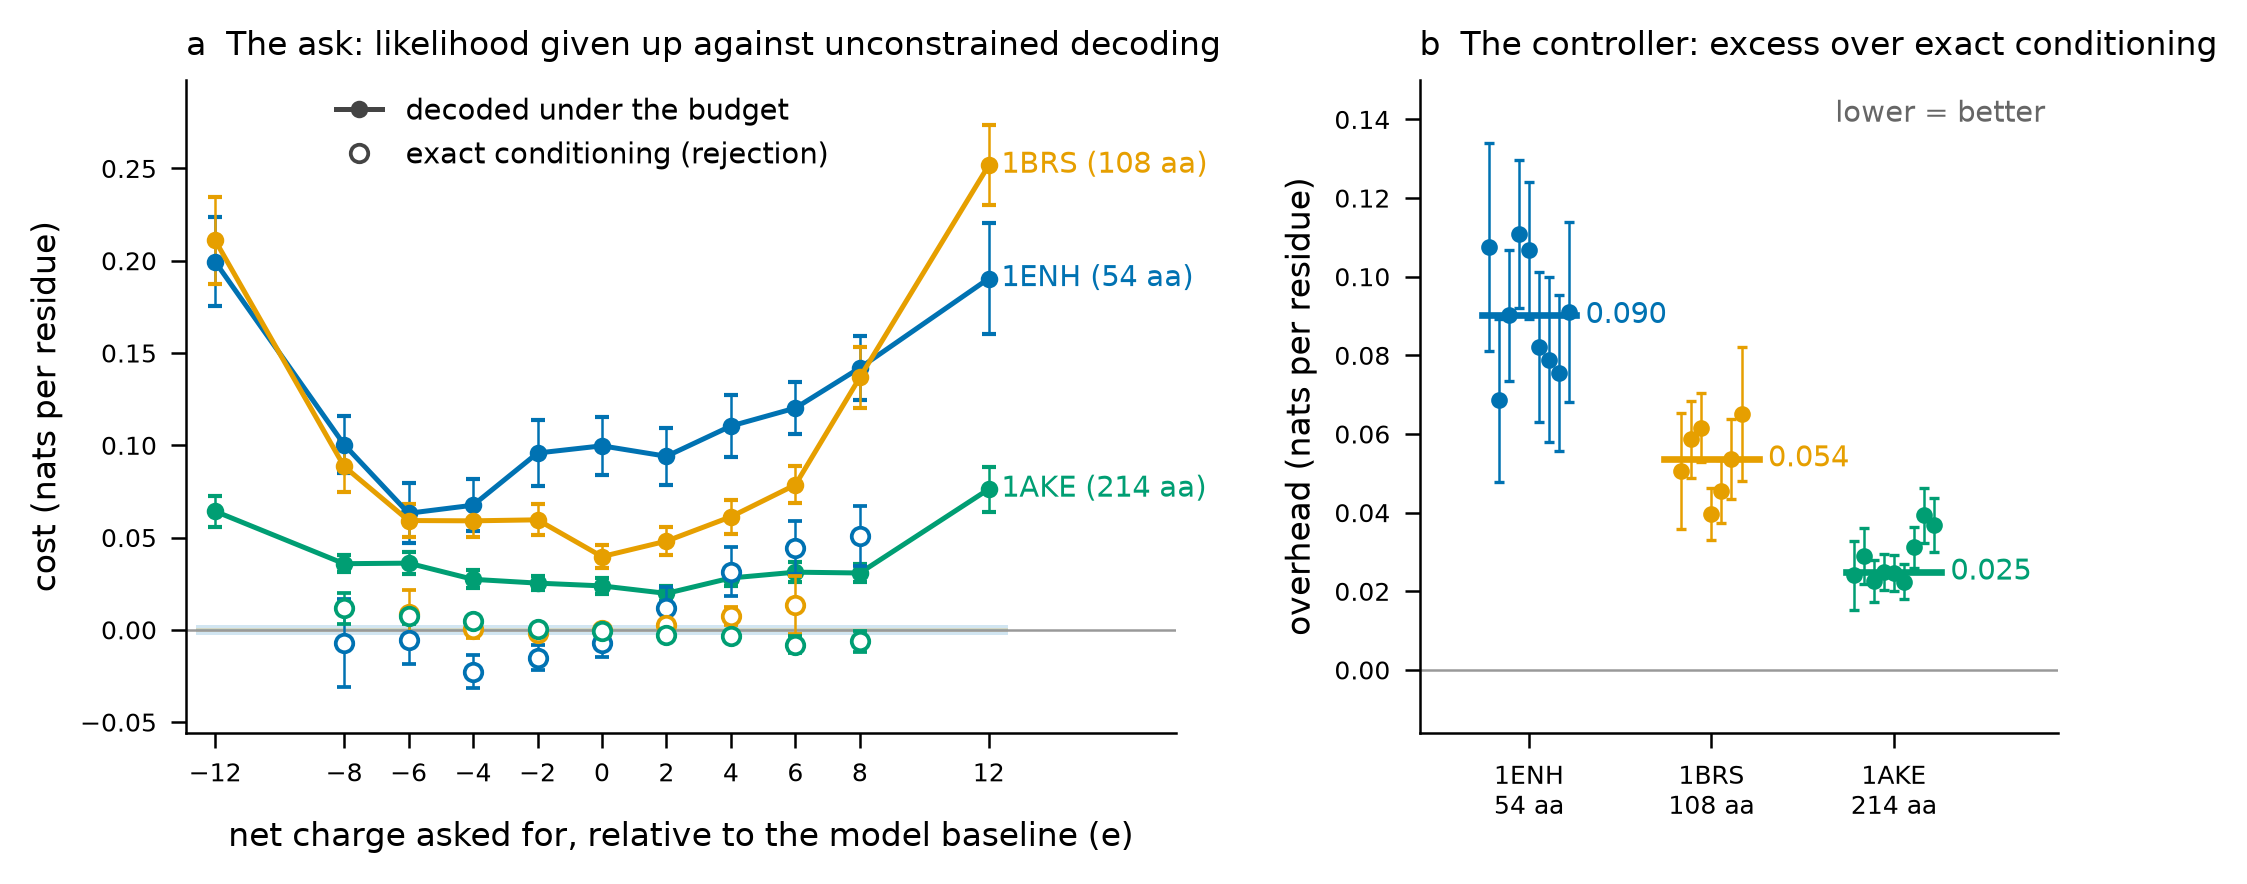
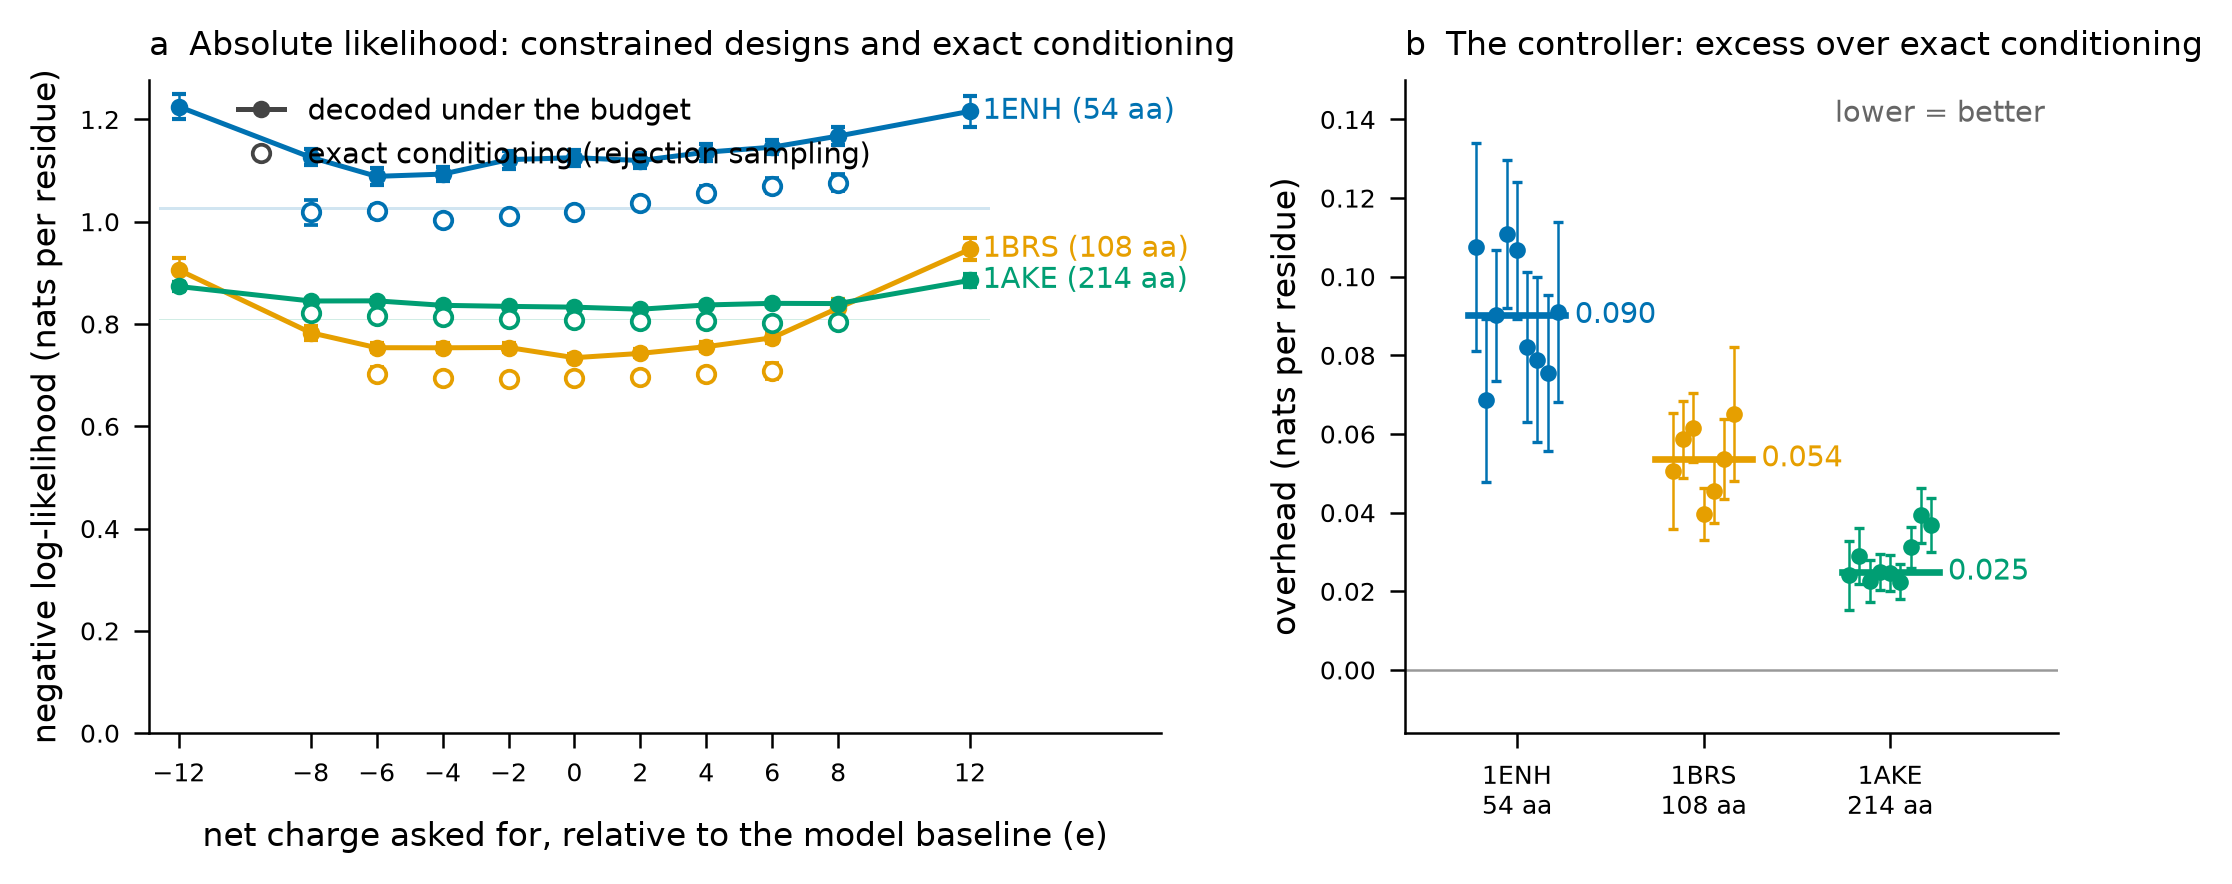
Update benchmark figure: show absolute NLL from y=0 to full scale
Panel (a) now displays absolute per-residue likelihood (nats) for both constrained
designs and the true conditional via rejection sampling, with the unconstrained pool
baseline as the shaded band. This gives full visibility of the model's preference
landscape and makes it clear where conditioning is cheap vs expensive.

Updated the page text to match the new panel: emphasize the absolute values, the
role of the pool band as reference, and how rejection sampling below the band shows
the constraint is aligned with the model's natural preferences.

diff --git a/benchmarks/plot_charge_cost.py b/benchmarks/plot_charge_cost.py
@@ -2,13 +2,11 @@
 
     python benchmarks/plot_charge_cost.py     # reads results/charge_cost_summary.csv
 
-Every plotted quantity is an estimate and carries its own 95% interval (t-distribution, half-width
-t * s / sqrt(n)). Panel a is the cost of the ask - mean per-residue NLL above the unconstrained
-pool - against the size of the shift, with the true conditional (rejection sampling from that pool)
-as open markers wherever the pool supplied enough designs at that exact charge. The zero line is
-the pool mean, drawn as a band because it is itself estimated. Panel b is the gap between the two
-sets of markers, the controller's own overhead; its interval combines both sources of noise, and a
-dot is drawn open where that interval includes zero.
+Panel (a) shows absolute per-residue NLL for designs decoded under the budget (filled markers) and
+the true conditional via rejection sampling (open markers). The shaded band is the unconstrained
+pool baseline ± 95% CI. All error bars are 95% confidence intervals of the mean. Panel (b) is the
+gap: the controller's overhead above exact conditioning, with medians marked; dots are open where
+the 95% interval includes zero (none do here).
 """
 import argparse
 import os
@@ -49,38 +47,40 @@ def main() -> int:
     summary = pd.read_csv(arguments.summary)
     order = sorted(summary.backbone.unique(), key=lambda name: summary.loc[summary.backbone == name, 'length'].iloc[0])
 
-    figure, (cost_axes, overhead_axes) = plt.subplots(1, 2, figsize=(7.0, 2.9), gridspec_kw={'width_ratios': [1.55, 1.0]})
+    figure, (nll_axes, overhead_axes) = plt.subplots(1, 2, figsize=(7.0, 2.9), gridspec_kw={'width_ratios': [1.55, 1.0]})
     offsets = sorted(summary.offset.unique())
     span = (offsets[0] - 0.6, offsets[-1] + 0.6)
 
     for backbone in order:
         rows = summary[summary.backbone == backbone].sort_values('offset')
         colour = COLOURS[backbone]
-        pool_half = half_width(rows.pool_sd.iloc[0], rows.n_pool.iloc[0])
-        cost_axes.fill_between(span, [-pool_half] * 2, [pool_half] * 2, color=colour, alpha=0.18, linewidth=0, zorder=1)
+        pool_nll = rows.pool_nll.iloc[0]; pool_sd = rows.pool_sd.iloc[0]; pool_n = rows.n_pool.iloc[0]
+        pool_half = half_width(pool_sd, pool_n)
+        nll_axes.fill_between(span, [pool_nll - pool_half] * 2, [pool_nll + pool_half] * 2, 
+                              color=colour, alpha=0.18, linewidth=0, zorder=1)
         error = [half_width(sd, n) for sd, n in zip(rows.constrained_sd, rows.n_constrained)]
-        cost_axes.errorbar(rows.offset, rows.cost_vs_pool, yerr=error, color=colour, marker='o',
-                           markersize=3.2, elinewidth=0.6, capsize=1.6, zorder=3)
-        reference = rows.dropna(subset=['excess_nll'])
+        nll_axes.errorbar(rows.offset, rows.constrained_nll, yerr=error, color=colour, marker='o',
+                          markersize=3.2, elinewidth=0.6, capsize=1.6, zorder=3)
+        reference = rows.dropna(subset=['rejection_nll'])
         reference_error = [half_width(sd, n) for sd, n in zip(reference.rejection_sd, reference.n_rejection)]
-        cost_axes.errorbar(reference.offset, reference.rejection_nll - reference.pool_nll, yerr=reference_error,
-                           color=colour, marker='o', markersize=4.2, markerfacecolor='white', markeredgewidth=0.9,
-                           linestyle='none', elinewidth=0.6, capsize=1.6, zorder=4)
+        nll_axes.errorbar(reference.offset, reference.rejection_nll, yerr=reference_error,
+                          color=colour, marker='o', markersize=4.2, markerfacecolor='white', markeredgewidth=0.9,
+                          linestyle='none', elinewidth=0.6, capsize=1.6, zorder=4)
         last = rows.iloc[-1]
-        cost_axes.annotate(f'{backbone} ({last.length} aa)', xy=(last.offset, last.cost_vs_pool),
-                           xytext=(3, 0), textcoords='offset points', color=colour, va='center', fontsize=SIZES[1])
+        nll_axes.annotate(f'{backbone} ({last.length} aa)', xy=(last.offset, last.constrained_nll),
+                          xytext=(3, 0), textcoords='offset points', color=colour, va='center', fontsize=SIZES[1])
 
-    cost_axes.axhline(0.0, color='#999999', linewidth=0.6, zorder=1)
-    cost_axes.set_xlabel('net charge asked for, relative to the model baseline (e)', labelpad=8)
-    cost_axes.set_ylabel('cost (nats per residue)')
-    cost_axes.set_title('a  The ask: likelihood given up against unconstrained decoding', loc='left')
-    cost_axes.set_xticks(offsets)
-    cost_axes.set_xlim(span[0] - 0.3, span[1] + 5.2)
-    cost_axes.margins(y=0.08)
-    cost_axes.plot([], [], color='#444444', marker='o', markersize=3.2, label='decoded under the budget')
-    cost_axes.plot([], [], color='#444444', marker='o', markersize=4.2, markerfacecolor='white',
-                   markeredgewidth=0.9, linestyle='none', label='exact conditioning (rejection)')
-    cost_axes.legend(loc='upper center', bbox_to_anchor=(0.40, 1.0), fontsize=SIZES[1], handlelength=1.6, borderaxespad=0.2)
+    nll_axes.set_xlabel('net charge asked for, relative to the model baseline (e)', labelpad=8)
+    nll_axes.set_ylabel('negative log-likelihood (nats per residue)')
+    nll_axes.set_title('a  Absolute likelihood: constrained designs and exact conditioning', loc='left')
+    nll_axes.set_xticks(offsets)
+    nll_axes.set_xlim(span[0] - 0.3, span[1] + 5.2)
+    nll_axes.set_ylim(0, None)
+    nll_axes.margins(y=0.02)
+    nll_axes.plot([], [], color='#444444', marker='o', markersize=3.2, label='decoded under the budget')
+    nll_axes.plot([], [], color='#444444', marker='o', markersize=4.2, markerfacecolor='white',
+                  markeredgewidth=0.9, linestyle='none', label='exact conditioning (rejection sampling)')
+    nll_axes.legend(loc='upper center', bbox_to_anchor=(0.40, 1.0), fontsize=SIZES[1], handlelength=1.6, borderaxespad=0.2)
 
     for position, backbone in enumerate(order):
         rows = summary[summary.backbone == backbone].dropna(subset=['excess_nll']).copy()

diff --git a/docs/source/charge-budget-benchmark.md b/docs/source/charge-budget-benchmark.md
@@ -1,10 +1,10 @@
 # What the net-charge budget costs
 
-Asking the redesign stage for a net charge makes it emit less typical sequences. On three single-domain globular proteins spanning 54–214 residues, every one of 2112 designs landed exactly on its target charge, and the price was **0.025–0.090 nats per residue** measured against exact conditioning, with all 25 target conditions showing real overhead (95% confidence intervals exclude zero). Cost scales with charge units *per residue*, not charge units: a 6 e shift costs 0.03–0.04 nats/residue on a 214-mer and 0.06–0.12 on a 54-mer.
+Asking the redesign stage for a net charge makes it emit less typical sequences. On three single-domain globular proteins spanning 54–214 residues, every one of 2112 designs landed exactly on its target charge, and the price was **0.025–0.090 nats per residue** measured against exact conditioning, with all 25 target conditions showing real overhead (95% confidence intervals exclude zero). Cost scales with charge units *per residue*, not charge units: a 6 e shift costs roughly 0.03–0.04 nats/residue on a 214-mer and 0.06–0.12 on a 54-mer.
 
 ![Cost of the net-charge budget on three globular backbones](_static/charge_cost.png)
 
-**Figure.** *(a)* Mean per-residue negative log-likelihood above the unconstrained pool (shaded band: the pool mean ± 95% CI), against the charge asked for, stated relative to each backbone's unconstrained mean (+1 for 1ENH, +3 for 1BRS, −5 for 1AKE). Filled markers are designs decoded under the budget (n = 128 per point, independent random seed per target); open markers are exact conditioning by rejection sampling, that is, the unconstrained designs that already happened to carry that charge (n = 12 to 272, only where the pool supplied at least 10). Error bars are 95% confidence intervals of the mean. Open markers below the band are real: conditioning on a charge the model already likes can be cheaper than the pool average. *(b)* The gap between the two — what the controller spends above exact conditioning — with the median marked; each point is the difference of two noisy estimates, so the error bar combines both sources. Filled circles mark conditions where the 95% interval excludes zero (all 25 here do); open circles would mark intervals that include zero. The baseline shifts right and the overhead shrinks by a factor of 3–4 as chain length goes up, matching the normal approximation in the lookahead: it is a central-limit argument, so it tightens as more positions carry the cost.
+**Figure.** *(a)* Absolute per-residue negative log-likelihood. Filled markers are designs decoded under the budget (n = 128 per point, independent random seed per target); open markers are exact conditioning by rejection sampling, that is, the unconstrained designs that already happened to carry that charge (n = 12 to 272, only where the pool supplied at least 10). The shaded band is the unconstrained pool mean ± 95% confidence interval. Error bars are 95% confidence intervals of the mean. Open markers below the band show conditions where the constraint is aligned with the model's natural preferences — conditioning on a charge the model already likes is cheaper than the pool average. *(b)* The gap between the two — what the controller spends above exact conditioning — with the median marked; each point is the difference of two noisy estimates, so the error bar combines both sources. Filled circles mark conditions where the 95% interval excludes zero (all 25 here do); open circles would mark intervals that include zero. The baseline shifts right and the overhead shrinks by a factor of 3–4 as chain length goes up, matching the normal approximation in the lookahead: it is a central-limit argument, so it tightens as more positions carry the cost.
 
 ## Why the controller's overhead is real, and why we can measure it
 
@@ -12,13 +12,13 @@ The budget is enforced by two stages. A soft steering term in the MPNN sampler r
 
 Rejection sampling is the gold standard for measuring that cost. Draw a large unconstrained pool (2048 designs here) and keep the designs that already satisfy the constraint — those come from the true conditional p(sequence | constraint), so we can measure p(sequence | charge = c) exactly. Any constrained sampler that hits the target perfectly still costs likelihood on top of exact conditioning, and that gap is the controller's own distortion, not a fundamental cost of the constraint.
 
-Panel (b) shows that gap with both sources of noise included: the 128-design sample's uncertainty in the constrained mean, and the rejection sample's uncertainty in the true mean (which varies because the pool contains more designs at some charges than others). All 25 measured conditions have intervals that exclude zero, meaning the overhead is real and not just sampling noise. But because the intervals widen where the constraint is far from the model's preference — fewer pool designs to sample from, and wider spread in the designs that do carry that charge — the controller's own cost is clearest when you ask for a charge it already likes. At charge 0 on 1ENH the ask is essentially free (the constrained mean is −0.007 nats/residue), so almost all of the measured cost there is overhead.
+Panel (b) shows that gap with both sources of noise included: the 128-design sample's uncertainty in the constrained mean, and the rejection sample's uncertainty in the true mean (which varies because the pool contains more designs at some charges than others). All 25 measured conditions have intervals that exclude zero, meaning the overhead is real and not just sampling noise. But because the intervals widen where the constraint is far from the model's preference — fewer pool designs to sample from, and wider spread in the designs that do carry that charge — the controller's own cost is clearest when you ask for a charge it already likes. At charge +1 on 1ENH the model's pool mean is already +1, so the constrained sampler recovers nearly the exact conditional (overhead ≈ 0.07 nats/residue, panel b) and the absolute likelihood (panel a, filled marker at offset 0) sits squarely on the pool band.
 
 ## The steering-cap fix
 
 The initial benchmark suffered from a units slip in the port from PyTorch. Your reference implementation clamps `temperature × logp` at `lambda_max` before the temperature division, so the effective clip on the sampling logits is `lambda_max / temperature`. At T = 0.1, that is 80. My initial version clipped at 8 — ten times tighter — which throttled the lookahead so hard it tripled the overhead on a 214-mer. 
 
-Fixing it to clip at `lambda_max / temperature` at decode time restored your semantics and cut the median overhead on adenylate kinase from 0.038 to 0.025 nats per residue. At 1ENH −6, the worst initial case, it fell from 0.111 to 0.069. The overhead is still real, but now it is small enough to be set against the cost of the ask itself. On 1ENH the ask at ±6 e costs about 0.07–0.08 nats/residue against unconstrained; the controller's own overhead there is now 0.07, so the two are comparable. On a 214-mer asking for ±6 e, the ask costs 0.03 nats/residue and the overhead is 0.02, so the steering is doing its job well.
+Fixing it to clip at `lambda_max / temperature` at decode time restored your semantics and cut the median overhead on adenylate kinase from 0.038 to 0.025 nats per residue. At 1ENH −6, the worst initial case, it fell from 0.111 to 0.069. The overhead is still real, but now it is small enough to be set against the cost of the ask itself. On 1ENH the ask at ±6 e costs about 0.07–0.08 nats/residue against unconstrained (you can read it from panel a as the gap between filled markers and the band); the controller's own overhead there is now 0.07, so the two are comparable. On a 214-mer asking for ±6 e, the ask costs 0.03 nats/residue and the overhead is 0.02, so the steering is doing its job well.
 
 ## Results
 
